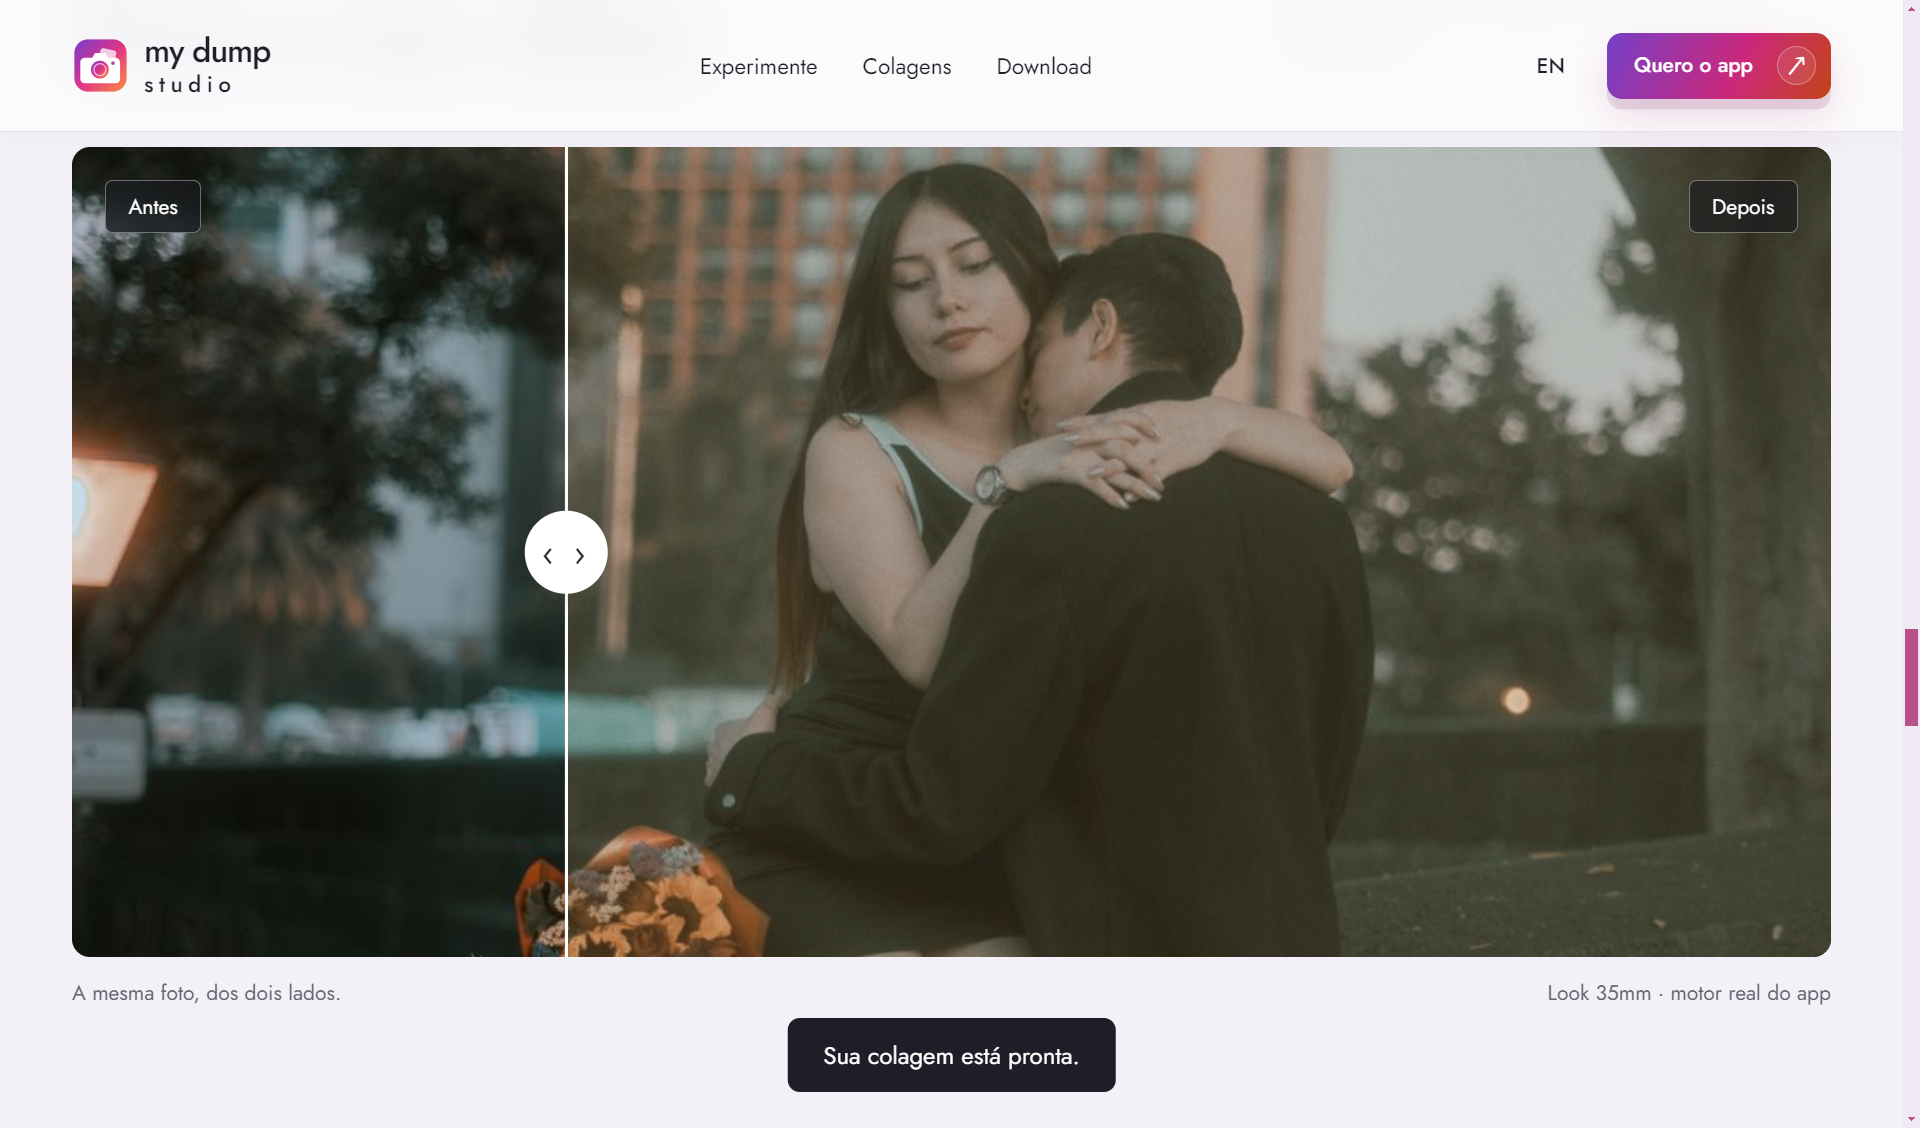
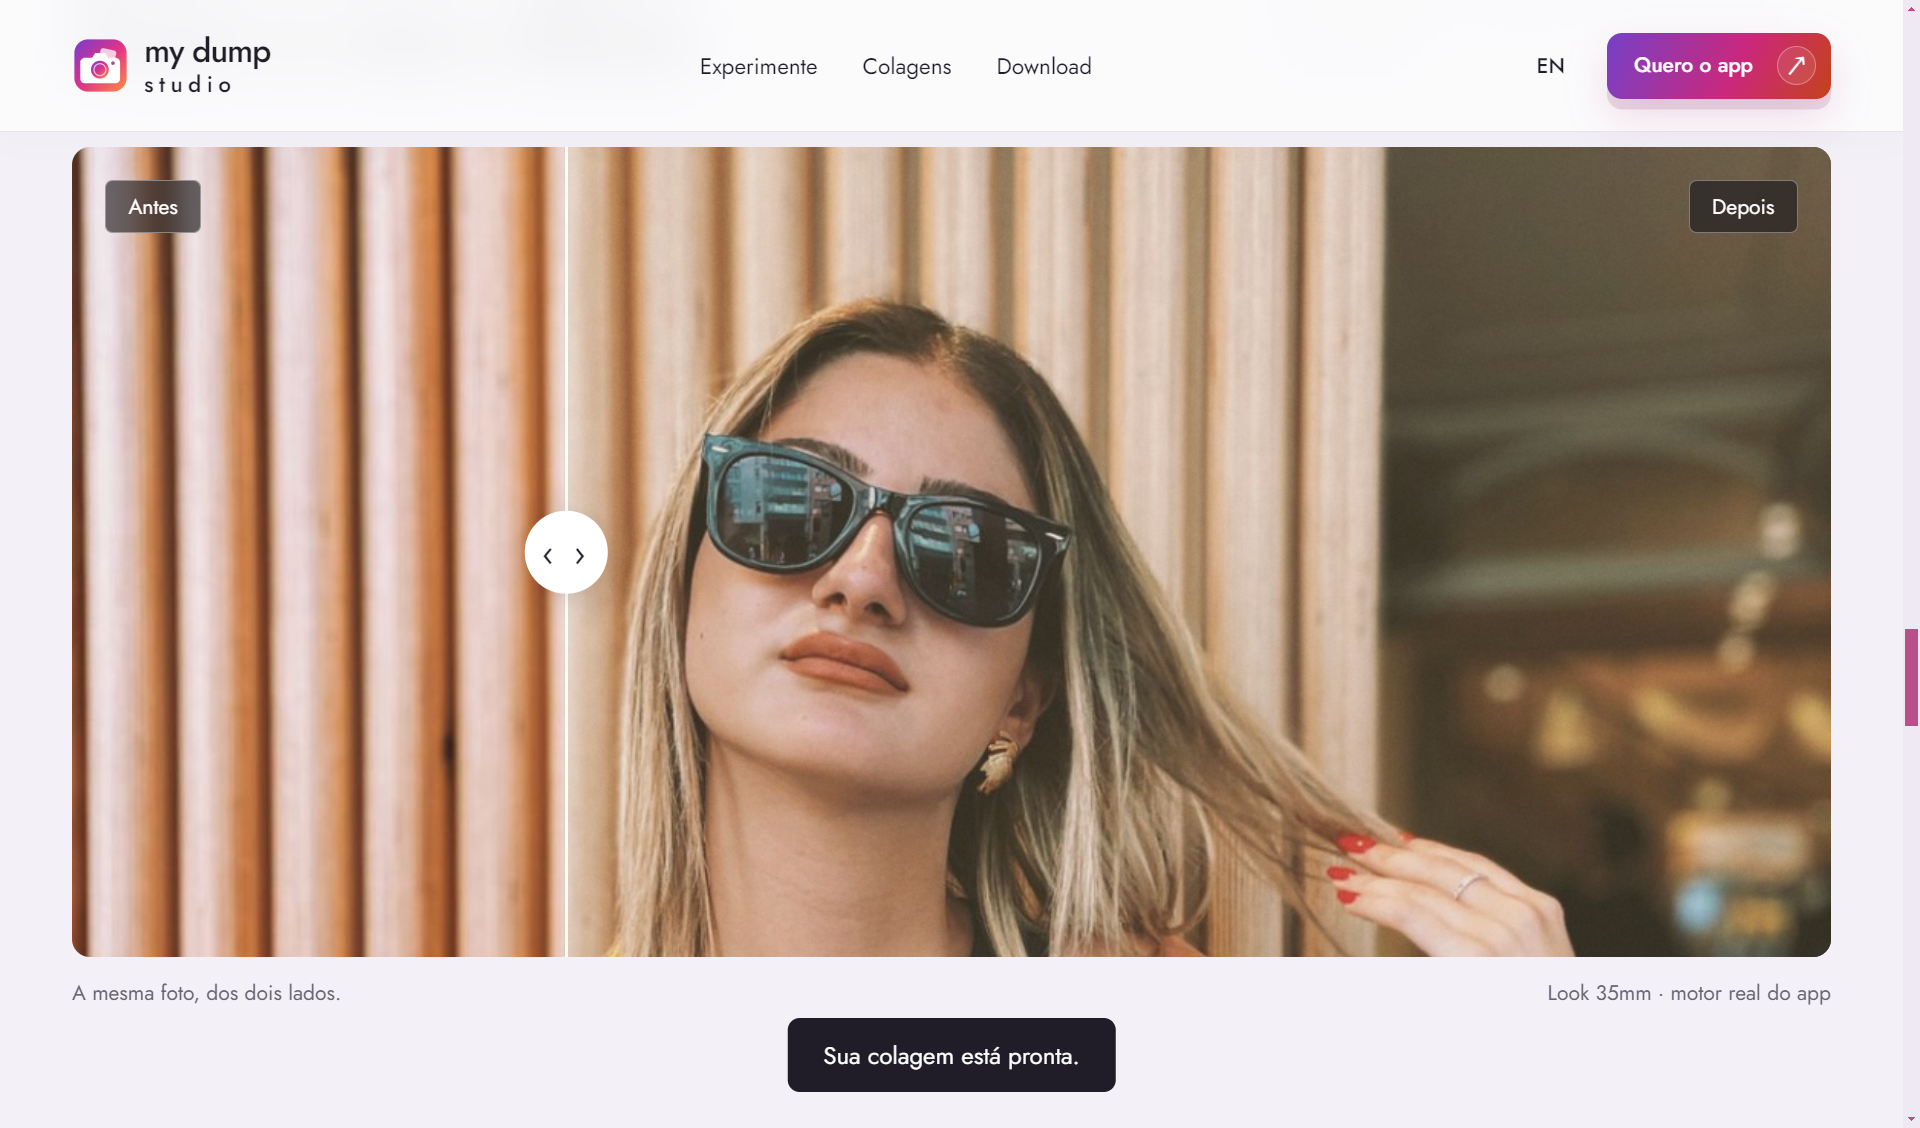
Refresh the before and after comparison photo

diff --git a/.site/app.js b/.site/app.js
@@ -138,7 +138,7 @@ $('#save-preview').addEventListener('click',() => {
 });
 $('#compare-range').addEventListener('input',(event) => $('#comparison').style.setProperty('--split',`${event.target.value}%`));
 async function setupComparison() {
-  const data=photo('city-romance');$('#before-image').src=`./${data.file}`;
+  const data=photo('sunlit-portrait');$('#before-image').src=`./${data.file}`;
   try{const [image,{renderPhoto}]=await Promise.all([loadImage(`./${data.file}`),engine()]);const processed=renderPhoto(image,'vint_seventies',85,true);const out=$('#after-canvas');out.width=processed.width;out.height=processed.height;out.getContext('2d').drawImage(processed,0,0);out.dataset.ready='true';}
   catch(error){console.error('[comparison]',error);$('#after-canvas').hidden=true;$('#compare-range').disabled=true;$('#compare-line').hidden=true;$('.compare-label.after').hidden=true;$('.compare-caption').firstElementChild.textContent=t('renderError');}
 }
